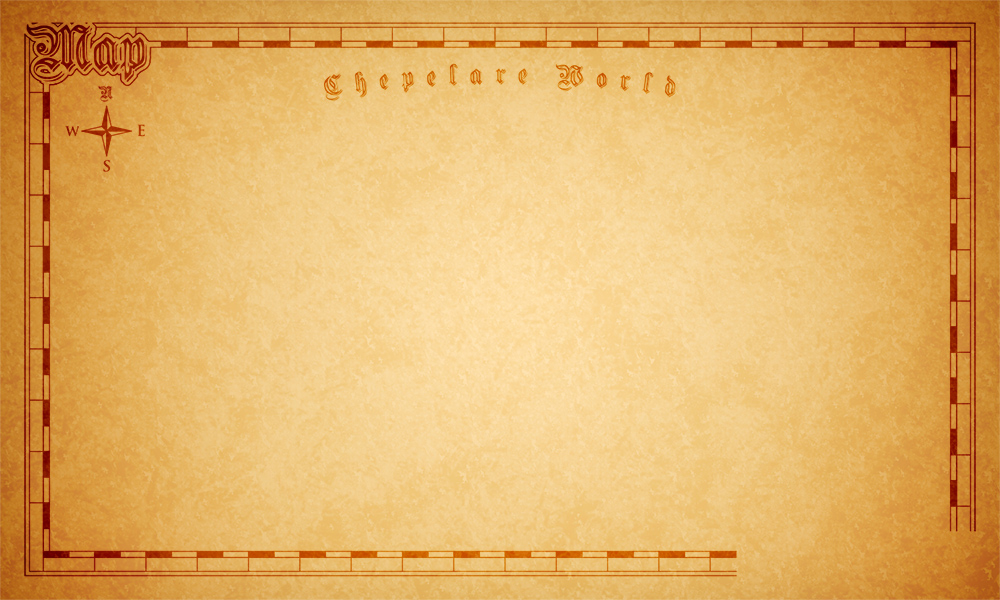
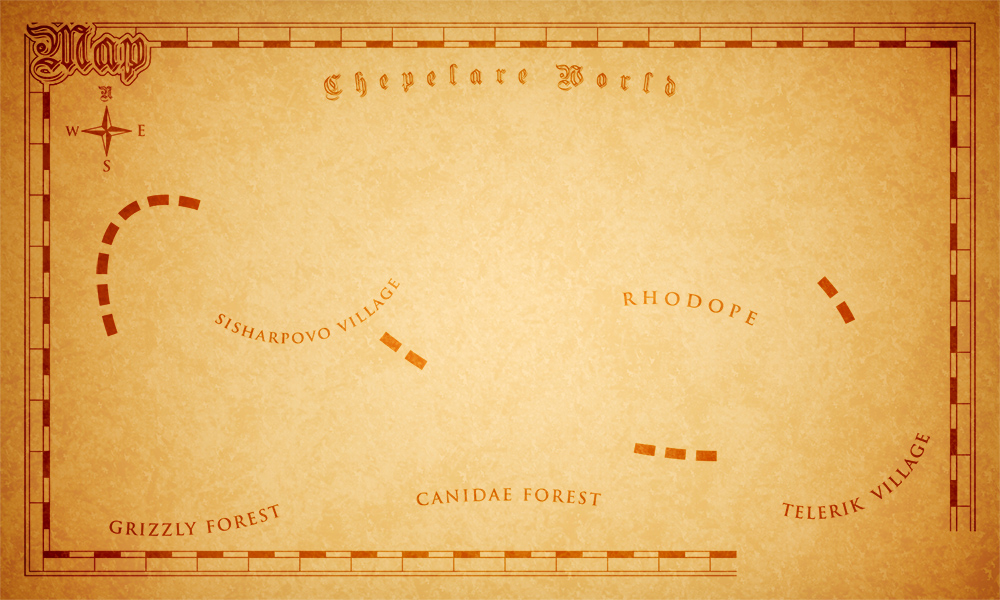
Finalized game map layout
- Added all locations
- Added player information on the map

diff --git a/JConradOOPProject/JConradOOPProject/Views/GameMap.xaml b/JConradOOPProject/JConradOOPProject/Views/GameMap.xaml
@@ -5,8 +5,147 @@
              xmlns:d="http://schemas.microsoft.com/expression/blend/2008" 
              mc:Ignorable="d" 
              d:DesignHeight="600" d:DesignWidth="1000">
+    <UserControl.Resources>
+        
+        <Style x:Key="location-grizlly" TargetType="{x:Type Button}">
+            <Setter Property="Cursor" Value="Hand" />
+            <Setter Property="HorizontalAlignment" Value="Left" />
+            <Setter Property="VerticalAlignment" Value="Top" />
+            <Setter Property="Template">
+                <Setter.Value>
+                    <ControlTemplate TargetType="{x:Type Button}">
+                        <Grid>
+                            <Image Name="buttonbg" Source="../Images/MapLocations/grizzly_normal.png" Width="167" Height="162" Stretch="Fill"/>
+                        </Grid>
+                        <ControlTemplate.Triggers>
+                            <Trigger Property="IsMouseOver" Value="True">
+                                <Setter TargetName="buttonbg" Property="Source" Value="../Images/MapLocations/grizzly_hover.png" />
+                            </Trigger>
+                        </ControlTemplate.Triggers>
+                    </ControlTemplate>
+                </Setter.Value>
+            </Setter>
+        </Style>
+        
+        <Style x:Key="location-sisharpovo" TargetType="{x:Type Button}">
+            <Setter Property="Cursor" Value="Hand" />
+            <Setter Property="HorizontalAlignment" Value="Left" />
+            <Setter Property="VerticalAlignment" Value="Top" />
+            <Setter Property="Template">
+                <Setter.Value>
+                    <ControlTemplate TargetType="{x:Type Button}">
+                        <Grid>
+                            <Image Name="buttonbg" Source="../Images/MapLocations/sisharpovo_normal.png" Width="184" Height="160" Stretch="Fill"/>
+                        </Grid>
+                        <ControlTemplate.Triggers>
+                            <Trigger Property="IsMouseOver" Value="True">
+                                <Setter TargetName="buttonbg" Property="Source" Value="../Images/MapLocations/sisharpovo_hover.png" />
+                            </Trigger>
+                        </ControlTemplate.Triggers>
+                    </ControlTemplate>
+                </Setter.Value>
+            </Setter>
+        </Style>
+
+        <Style x:Key="location-canidae" TargetType="{x:Type Button}">
+            <Setter Property="Cursor" Value="Hand" />
+            <Setter Property="HorizontalAlignment" Value="Left" />
+            <Setter Property="VerticalAlignment" Value="Top" />
+            <Setter Property="Template">
+                <Setter.Value>
+                    <ControlTemplate TargetType="{x:Type Button}">
+                        <Grid>
+                            <Image Name="buttonbg" Source="../Images/MapLocations/canidae_normal.png" Width="201" Height="171" Stretch="Fill"/>
+                        </Grid>
+                        <ControlTemplate.Triggers>
+                            <Trigger Property="IsMouseOver" Value="True">
+                                <Setter TargetName="buttonbg" Property="Source" Value="../Images/MapLocations/canidae_hover.png" />
+                            </Trigger>
+                            <Trigger Property="IsEnabled" Value="False">
+                                <Setter TargetName="buttonbg" Property="Source" Value="../Images/MapLocations/canidae_unavailable.png" />
+                            </Trigger>
+                        </ControlTemplate.Triggers>
+                    </ControlTemplate>
+                </Setter.Value>
+            </Setter>
+        </Style>
+
+        <Style x:Key="location-telerik" TargetType="{x:Type Button}">
+            <Setter Property="Cursor" Value="Hand" />
+            <Setter Property="HorizontalAlignment" Value="Left" />
+            <Setter Property="VerticalAlignment" Value="Top" />
+            <Setter Property="Template">
+                <Setter.Value>
+                    <ControlTemplate TargetType="{x:Type Button}">
+                        <Grid>
+                            <Image Name="buttonbg" Source="../Images/MapLocations/telerik_normal.png" Width="163" Height="159" Stretch="Fill"/>
+                        </Grid>
+                        <ControlTemplate.Triggers>
+                            <Trigger Property="IsMouseOver" Value="True">
+                                <Setter TargetName="buttonbg" Property="Source" Value="../Images/MapLocations/telerik_hover.png" />
+                            </Trigger>
+                            <Trigger Property="IsEnabled" Value="False">
+                                <Setter TargetName="buttonbg" Property="Source" Value="../Images/MapLocations/telerik_unavailable.png" />
+                            </Trigger>
+                        </ControlTemplate.Triggers>
+                    </ControlTemplate>
+                </Setter.Value>
+            </Setter>
+        </Style>
+
+        <Style x:Key="location-rhodope" TargetType="{x:Type Button}">
+            <Setter Property="Cursor" Value="Hand" />
+            <Setter Property="HorizontalAlignment" Value="Left" />
+            <Setter Property="VerticalAlignment" Value="Top" />
+            <Setter Property="Template">
+                <Setter.Value>
+                    <ControlTemplate TargetType="{x:Type Button}">
+                        <Grid>
+                            <Image Name="buttonbg" Source="../Images/MapLocations/rhodope_normal.png" Width="262" Height="199" Stretch="Fill"/>
+                        </Grid>
+                        <ControlTemplate.Triggers>
+                            <Trigger Property="IsMouseOver" Value="True">
+                                <Setter TargetName="buttonbg" Property="Source" Value="../Images/MapLocations/rhodope_hover.png" />
+                            </Trigger>
+                            <Trigger Property="IsEnabled" Value="False">
+                                <Setter TargetName="buttonbg" Property="Source" Value="../Images/MapLocations/rhodope_unavailable.png" />
+                            </Trigger>
+                        </ControlTemplate.Triggers>
+                    </ControlTemplate>
+                </Setter.Value>
+            </Setter>
+        </Style>
+
+    </UserControl.Resources>
     <Grid>
         <Image Source="../Images/game_map.jpg" Stretch="Fill" />
+        <Grid Width="890" Height="495">
+            <Grid.Resources>
+                <Style BasedOn="{StaticResource default-font}" TargetType="{x:Type TextBlock}">
+                    <Setter Property="TextAlignment" Value="Right" />
+                    <Setter Property="Foreground" Value="#9c3200" />
+                </Style>
+            </Grid.Resources>
+            <Grid Width="150" Margin="0,20,13,0" HorizontalAlignment="Right" VerticalAlignment="Top">
+                <StackPanel Orientation="Vertical">
+                    <TextBlock FontSize="22" Text="PeshoTurboto" />
+                    <TextBlock FontSize="17" Text="5 LVL" />
+                    <TextBlock FontSize="11" Text="1233 exp" />
+                    <TextBlock FontSize="15" Margin="0,5,0,0" Foreground="Yellow" Text="12 235">
+                        <TextBlock.Effect>
+                            <DropShadowEffect ShadowDepth="1" Direction="270" Color="Black" Opacity="0.8" BlurRadius="3" />
+                        </TextBlock.Effect>
+                    </TextBlock>
+                </StackPanel>
+            </Grid>
+
+            <Button Name="LocationGrizzly" Click="Location_Click" Style="{StaticResource location-grizlly}" Margin="21,285,0,0" />
+            <Button Name="LocationSisharpovo" Click="Location_Click" Style="{StaticResource location-sisharpovo}" Margin="140,100,0,0" />
+            <Button Name="LocationCanidae" Click="Location_Click" Style="{StaticResource location-canidae}" Margin="365,248,0,0" IsEnabled="True" />
+            <Button Name="LocationTelerik" Click="Location_Click" Style="{StaticResource location-telerik}" Margin="674,260,0,0" IsEnabled="False" />
+            <Button Name="LocationRhodope" Click="Location_Click" Style="{StaticResource location-rhodope}" Margin="536,40,0,0" IsEnabled="False" />
+
+        </Grid>
         <Grid HorizontalAlignment="Right" VerticalAlignment="Bottom" Margin="0,0,0,10">
             <StackPanel Orientation="Horizontal">
                 <StackPanel.Resources>

diff --git a/JConradOOPProject/JConradOOPProject/Views/StartMenu.xaml b/JConradOOPProject/JConradOOPProject/Views/StartMenu.xaml
@@ -12,7 +12,6 @@
             <Setter Property="Height" Value="40" />
             <Setter Property="Foreground" Value="White" />
             <Setter Property="FontSize" Value="20" />
-            <Setter Property="FontFamily" Value="Arial" />
             <Setter Property="Cursor" Value="Hand" />
             <Setter Property="Template">
                 <Setter.Value>

diff --git a/JConradOOPProject/JConradOOPProject/Views/GameMap.xaml.cs b/JConradOOPProject/JConradOOPProject/Views/GameMap.xaml.cs
@@ -30,6 +30,19 @@ namespace JConradOOPProject.Views
         }
 
         /// <summary>
+        /// LOCATION
+        /// Executes on every location click.
+        /// </summary>
+        /// <param name="sender"></param>
+        /// <param name="e"></param>
+        private void Location_Click(object sender, RoutedEventArgs e)
+        {
+            Button location = (Button)sender;
+
+            MessageBox.Show(location.Name, "Returns clicked Button.Name");
+        }
+
+        /// <summary>
         /// Button EXIT
         /// Closes the current game session, saves the content and returns the user to the main menu.
         /// </summary>
